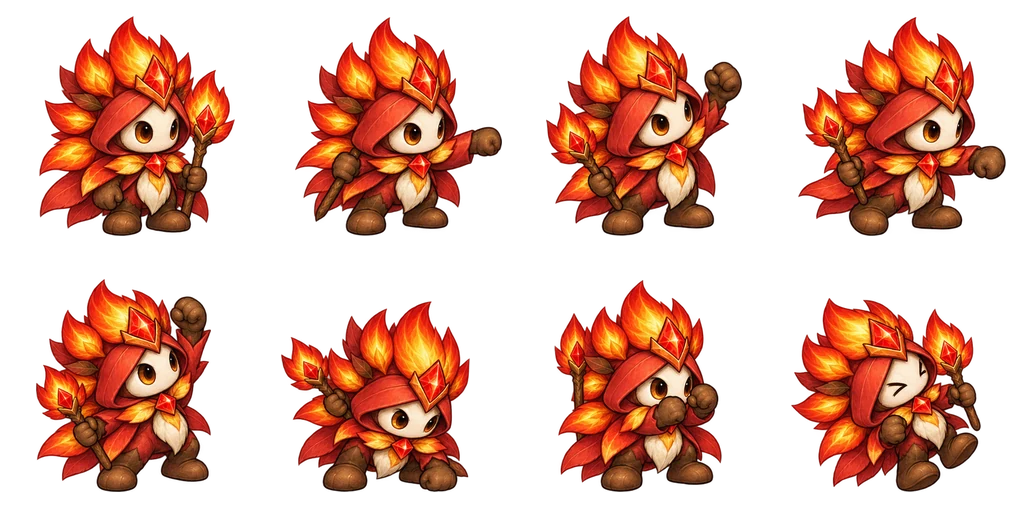
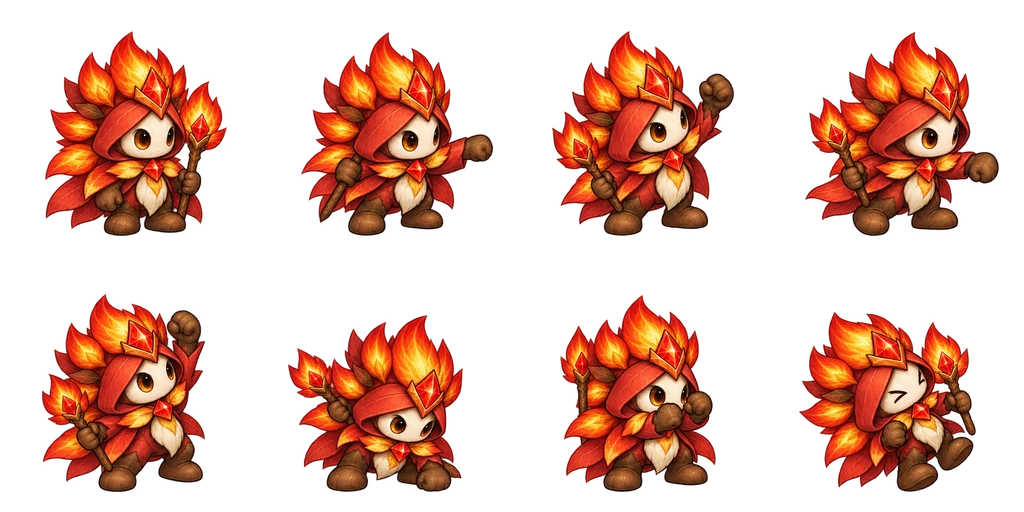
씨앗 대전: 나머지 일곱 캐릭터 동작 시트 연결, 아홉 장 크기 통일, 고르기 화면 얼굴도 동작 그림
사용자가 GPT로 받은 동작 시트 7장(거울·중력·분열·연쇄·귀환·공전·빙결, 분열·귀환은 다시 그린 판)
- 아홉 장 모두 '서 있는 칸 높이 = 칸의 80%' 기준으로 배율을 정하고(다른 칸이 넘치면 줄임), 발 높이·몸통 중심 맞춤
  (창·불꽃도 같은 기준으로 다시 만듦) → 서 있는 키 180~205px로 고름
- MOTION 목록에 아홉 명 모두, 고르기 화면 얼굴은 동작 그림 서 있는 칸을 조금 확대해 보여 줌

diff --git a/src/seed-duel-view.js b/src/seed-duel-view.js
@@ -18,7 +18,7 @@ const WX0=-6,WY0=-6,WX1=41,WY1=27,BAKE=40;
 // 버튼 그림: 모험의 씨앗 동작 그림(adventure/seed-combat-v1, 4×2칸)과 이펙트 소재(vfx-atlas, 4×4칸).
 const POSE={attack:1,heavy:2,block:5,dodge:3};
 // GPT 동작 그림(4×2: 서기·1타·2타·3타·강공격 모으기·내리치기·막기·맞음)이 있는 캐릭터. 없으면 서 있는 그림 + 기울기 연출.
-const MOTION=['pierce','burst'];
+const MOTION=['pierce','burst','reflect','gravity','split','chain','recall','orbit','frost'];
 const motionFrame=f=>['hit','broken','stagger','jailed'].includes(f.state)?7:f.state==='attack'&&f.t>0?[1,2,3][f.step]??1:f.state==='heavy'&&f.t>0?(f.t>.12?4:5):f.state==='dash'?3:f.state==='leap'?(f.t>.2?4:5):f.blocking?6:0;
 const clamp=(v,a,b)=>Math.max(a,Math.min(b,v));
 export function mountSeedDuel({host=document.body,audio,onClose=()=>{}}={}){
@@ -39,7 +39,8 @@ export function mountSeedDuel({host=document.body,audio,onClose=()=>{}}={}){
  function resize(){const r=root.getBoundingClientRect();width=r.width;height=r.height;dpr=Math.min(1.5,devicePixelRatio||1,Math.max(1,Math.sqrt(2.6e6/Math.max(1,width*height))));canvas.width=Math.round(width*dpr);canvas.height=Math.round(height*dpr);cam.k=0;}
  function close(){if(closed)return;closed=true;cancelAnimationFrame(raf);for(const off of listeners)off();root.remove();document.body.classList.remove('seed-duel-open');onClose();}
  // ── 고르기 화면
- const portrait=(id,extra='')=>{const c=DUEL_CHARACTERS[id];return `<span class="sd-portrait ${extra}" style="background-image:url('${BASE}assets/cute/seed-solo-v1.webp');background-position:${c.tile%4*100/3}% ${Math.floor(c.tile/4)*50}%"></span>`;};
+ // 고르기 화면 얼굴도 싸울 때와 같은 동작 그림의 서 있는 칸으로(없으면 예전 단독 진화 그림).
+ const portrait=(id,extra='')=>{const c=DUEL_CHARACTERS[id];return MOTION.includes(id)?`<span class="sd-portrait sd-portrait-motion ${extra}" style="background-image:url('${BASE}assets/duel/${id}-motion-v1.webp')"></span>`:`<span class="sd-portrait ${extra}" style="background-image:url('${BASE}assets/cute/seed-solo-v1.webp');background-position:${c.tile%4*100/3}% ${Math.floor(c.tile/4)*50}%"></span>`;};
  function select(){
   const card=id=>{const c=DUEL_CHARACTERS[id];return `<button class="sd-card${pick.player===id?' on':''}" data-pick="${id}" style="--ink:${c.ink}">${portrait(id)}<span><b>${c.name}</b><small>${c.role}</small><em>${c.blurb}</em><i>${lawArt(id,'sd-law')} 기술 ${c.skills[0].name} · 필살 ${c.ult.name}</i></span></button>`;};
   $('.sd-modal').hidden=false;$('.sd-modal').innerHTML=`<div class="sd-paper"><p class="sd-eyebrow">SEED · DUEL · 시험 모드</p><h1>씨앗 대전</h1><p>버튼은 <b>공격·방어·회피·필살</b> 네 개. <b>공격+방어</b>를 같이 누르면 강공격(막기 부수기), <b>공격+회피</b>는 캐릭터 기술. 공격은 막기에, 막기는 강공격에 져요. 처음이면 <b>콤보 연습</b>부터!</p><div class="sd-cards">${DUEL_ORDER.map(card).join('')}</div>

diff --git a/src/patch-notes.js b/src/patch-notes.js
@@ -4,6 +4,10 @@ export const NOTES_KEY='seed-notes-seen-v1';
 
 export const PATCH_NOTES=Object.freeze([
  {
+  id:'2026-09-28-z',date:'9월 28일',title:'씨앗 대전 · 아홉 캐릭터 모두 동작 그림',
+  lines:['거울·중력·분열·연쇄·귀환·공전·빙결 씨앗도 공격·강공격·막기·맞기마다 다른 동작 그림으로 움직여요. 고르기 화면 얼굴도 같은 그림이에요.']
+ },
+ {
   id:'2026-09-28-y',date:'9월 28일',title:'새 그림 · 대전 동작·경기장 바닥·수호전 계급장',
   lines:['씨앗 대전: 창·불꽃 씨앗이 공격·강공격·막기·맞기마다 다른 동작 그림으로 움직여요. 경기장 바닥도 새 돌바닥이에요.','씨앗 수호전: 계급(1~4)이 새 계급장 그림으로 보여요.']
  },

diff --git a/src/seed-duel.css b/src/seed-duel.css
@@ -99,3 +99,4 @@
 @media(min-width:860px){.sd-cards{grid-template-columns:repeat(3,1fr)}.sd-card .sd-portrait{flex-basis:70px;width:70px;height:70px}.sd-card em{font-size:11px}}
 #seed-duel .sd-card{padding:8px}
 @media(max-height:620px){.sd-card em{display:none}.sd-card .sd-portrait{flex-basis:54px;width:54px;height:54px}.sd-cards{gap:6px;margin:6px 0}}
+.sd-portrait.sd-portrait-motion{background-size:520% 260%;background-position:3.6% 12.5%}

diff --git a/GPT_ART_REQUESTS.md b/GPT_ART_REQUESTS.md
@@ -7,7 +7,7 @@
 ## 진행 상황(2026-09-28)
 
 - 완료: 창·불꽃 동작 시트(`public/assets/duel/pierce·burst-motion-v1.webp`, 칸마다 같은 배율·발 높이로 다시 맞춤), 계급장(`public/assets/defense/rank-badges-v1.webp`), 대전 바닥(`public/assets/duel/arena-floor-v1.webp`)
-- 남음: 동작 시트 7장(거울·중력·분열·연쇄·귀환·공전·빙결) — 받으면 `seed-duel-view.js`의 `MOTION` 목록에 이름만 더하면 된다
+- PNG 원본 7장 추가 완료: `gpt-art-delivery/reflect·gravity·split·chain·recall·orbit·frost-motion-*.png`. 분열·귀환은 경계 여백을 보정한 `v2`를 우선 사용한다. 원본은 1774×887이므로 1024×512 셀 정렬·WebP 변환과 실제 게임 연결은 아직 필요하다.
 
 ## 우선순위
 
